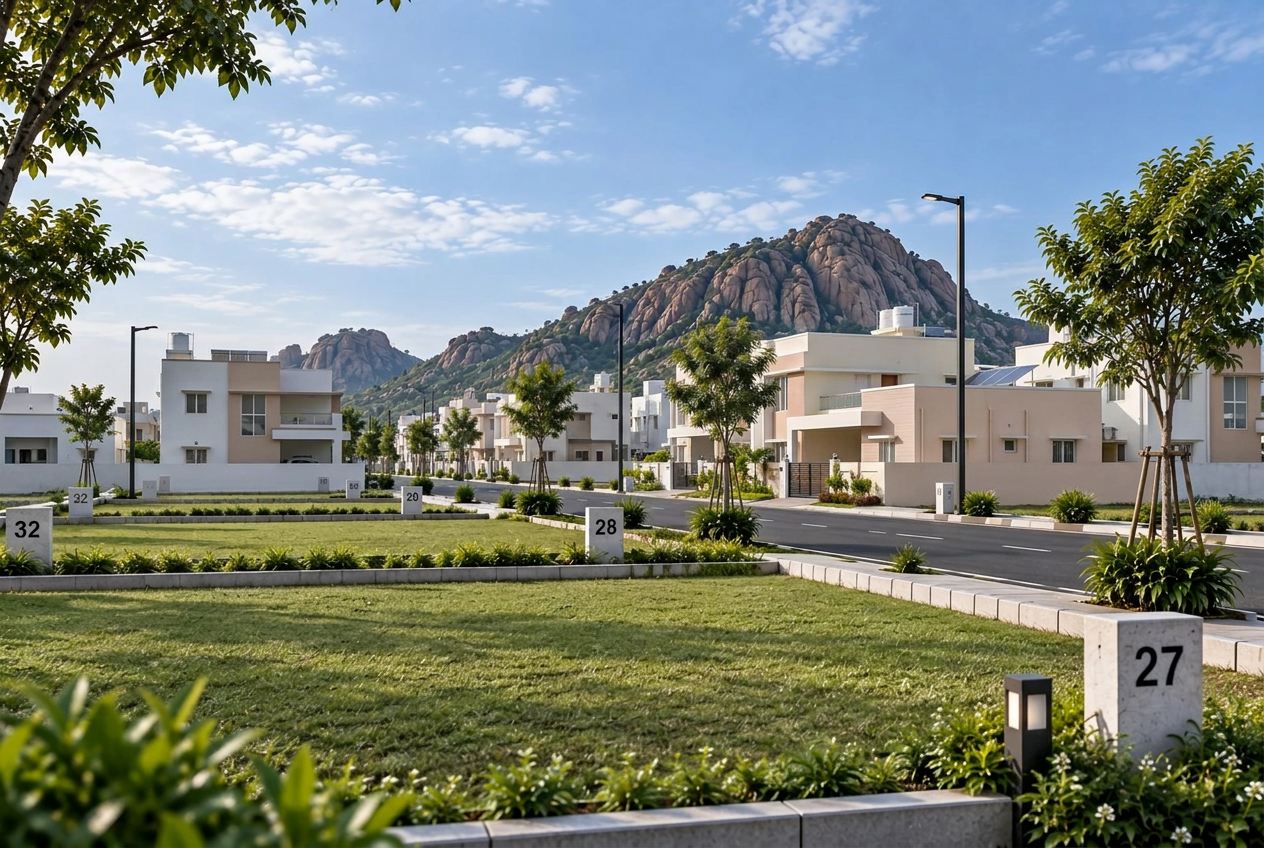
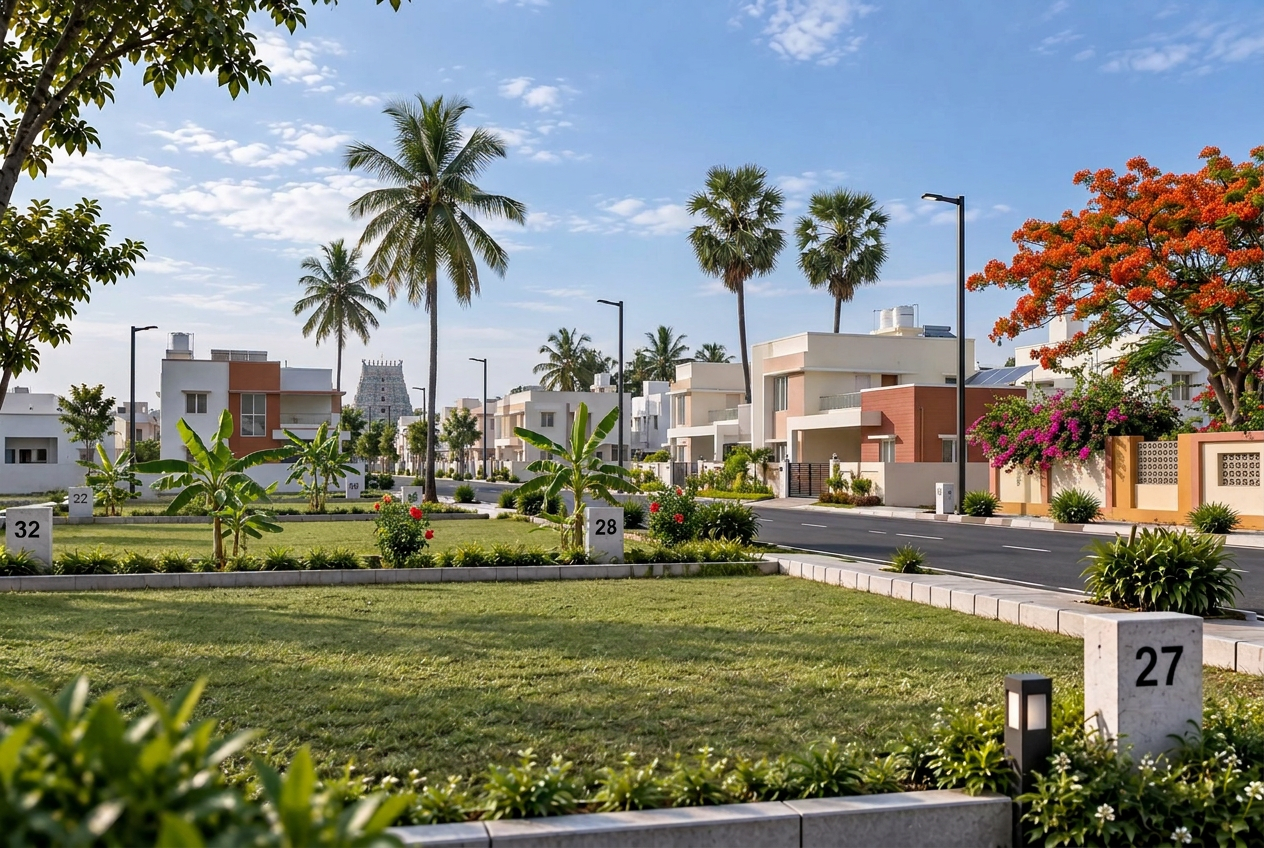
hero: southern character in the header image
Regenerated from the built-out layout with the region in it — coconut and
palmyra palms, banana plants, gulmohar, bougainvillea over a compound wall,
terracotta and ochre walls, concrete grille work, and a Dravidian gopuram on
the far skyline. The granite hill drops out, which also answers the note about
not leaning on Yanaimalai.

diff --git a/index.html b/index.html
@@ -54,7 +54,7 @@
 </header>
 <main>
   <section class="lead">
-    <div class="lead-shot"><img src="hero-homes.jpg" alt="Homes built along a numbered residential layout at ANANTAA, with kerbed internal roads, avenue trees and street lighting" width="1264" height="848" fetchpriority="high"></div>
+    <div class="lead-shot"><img src="hero-homes.jpg?v=1790718397" alt="Homes built along a numbered residential layout in Southern Tamil Nadu, with coconut palms, a temple gopuram on the skyline, kerbed internal roads and street lighting" width="1264" height="848" fetchpriority="high"></div>
     <div class="lead-veil"></div>
     <div class="wrap">
       <p class="eyebrow up" style="--d:.9s">MRC Landmarks</p>
